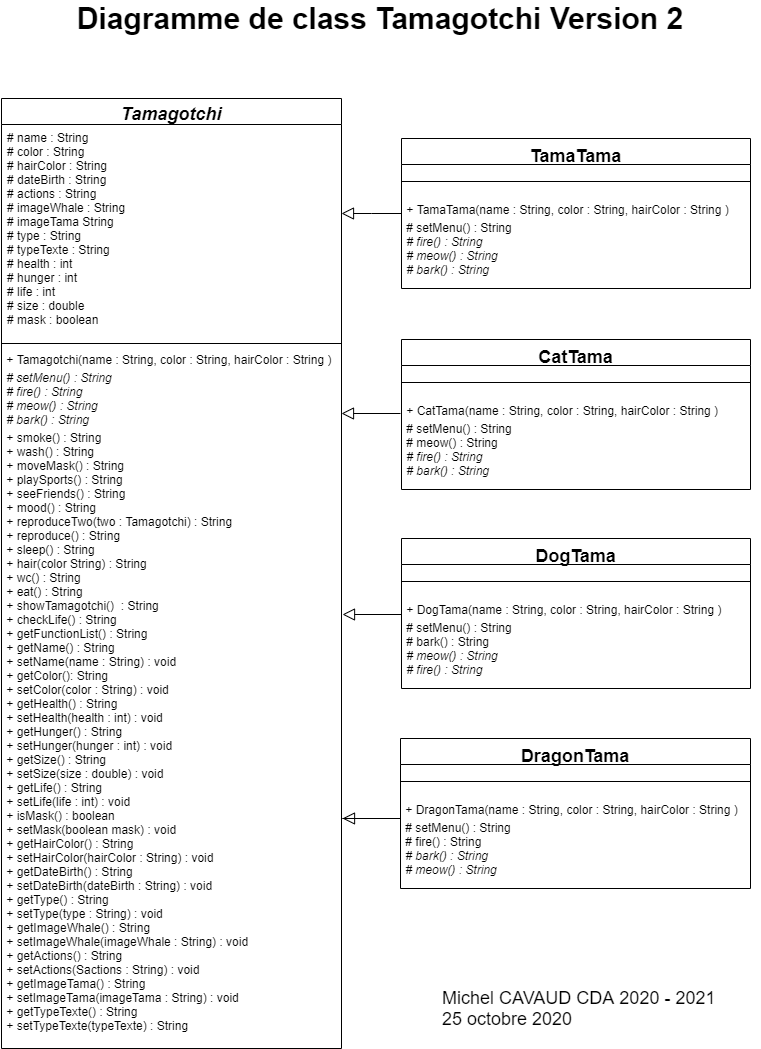
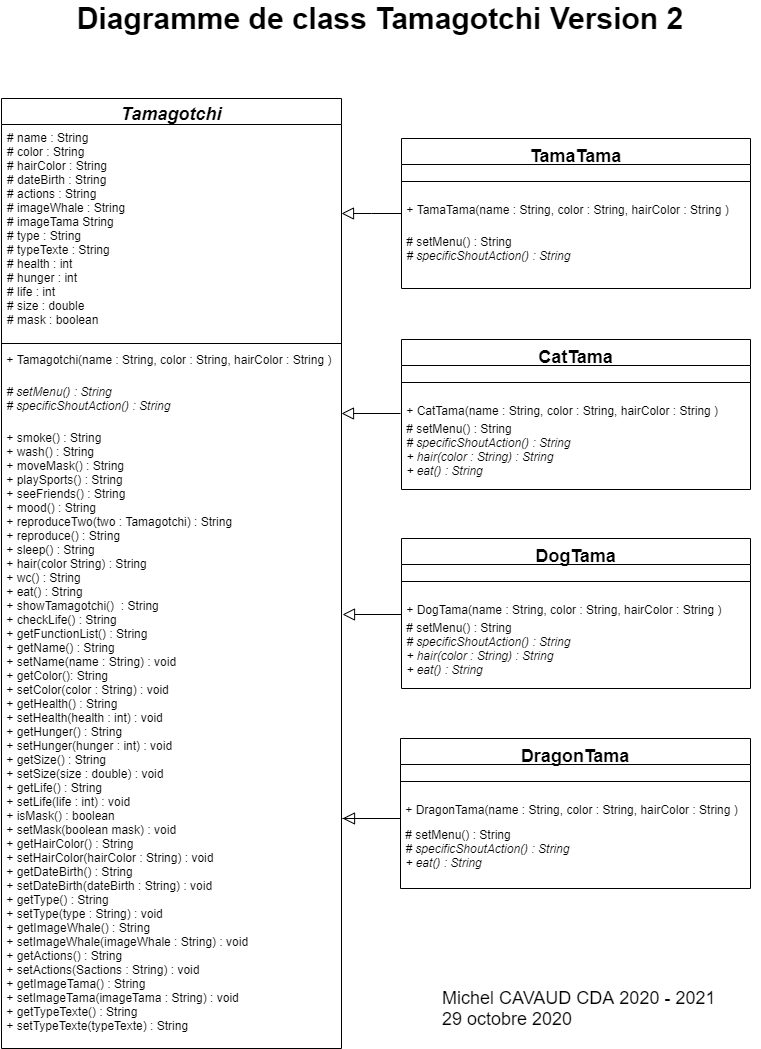
New version of class diagram

diff --git a/src/tamagotchiv2/DragonTama.java b/src/tamagotchiv2/DragonTama.java
@@ -59,7 +59,7 @@ public class DragonTama extends Tamagotchi {
 				<br>Il a maintenant "health" points de santé
 				<br>Il a maintenant "life" points de vie
 	 */
-	public String specificShoutAction() {
+	protected String specificShoutAction() {
 		String textReturn = "";
 		this.setLife(-1);
 		if(!this.checkLife()){

diff --git a/src/tamagotchiv2/CatTama.java b/src/tamagotchiv2/CatTama.java
@@ -55,7 +55,7 @@ public class CatTama extends Tamagotchi{
 				<br>Il a maintenant "health" points de santé
 				<br>Il a maintenant "life" points de vie
 	 */
-	public String specificShoutAction() {
+	protected String specificShoutAction() {
 		String textReturn = "";
 		this.setLife(-1);
 		if(!this.checkLife()){

diff --git a/src/tamagotchiv2/DogTama.java b/src/tamagotchiv2/DogTama.java
@@ -43,7 +43,7 @@ public class DogTama extends Tamagotchi{
 				<br>Il a maintenant "health" points de santé
 				<br>Il a maintenant "life" points de vie
 	 */
-	public String specificShoutAction() {
+	protected String specificShoutAction() {
 		String textReturn = "";
 		this.setLife(-1);
 		if(!this.checkLife()){
